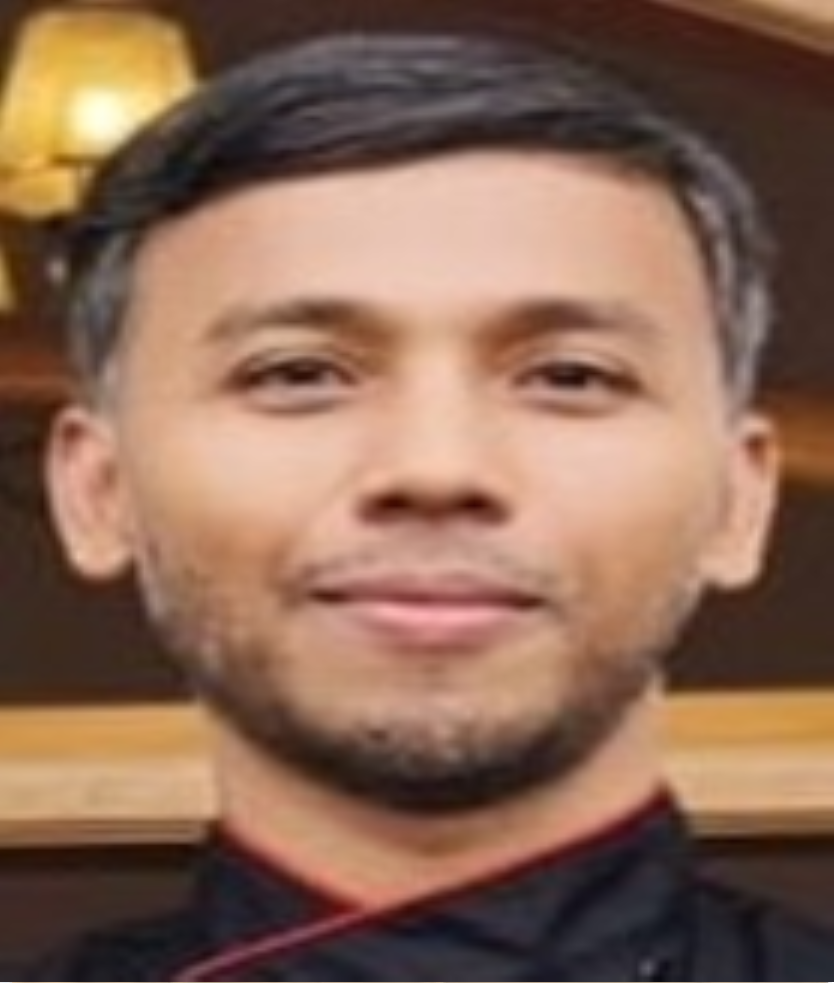
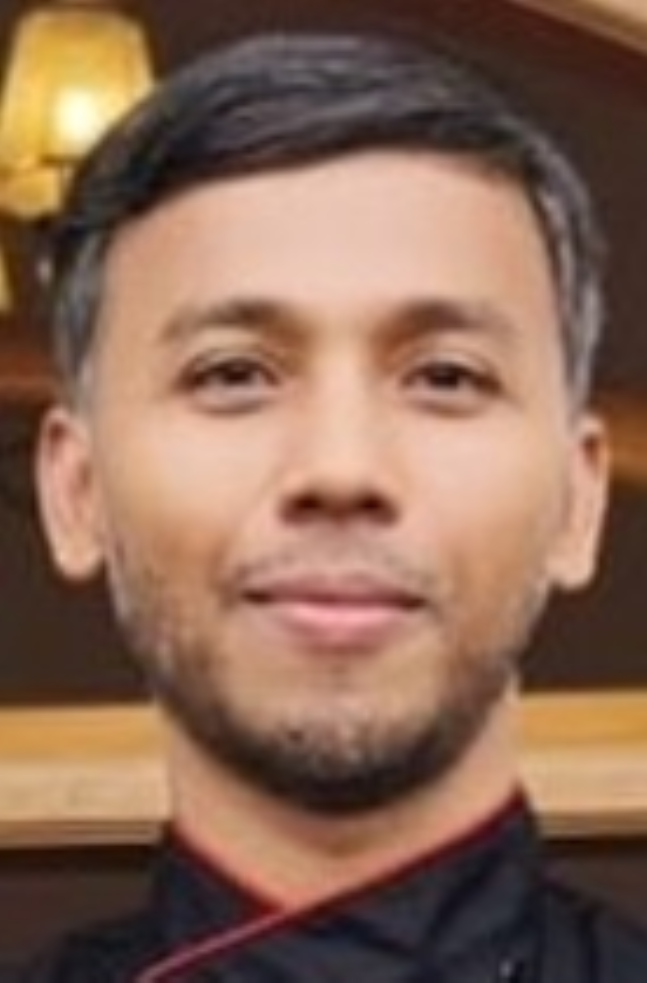
Added "Our Management" Fix Stretched image

diff --git a/BerlinerBrotfabrik/public/css/aboutus.css b/BerlinerBrotfabrik/public/css/aboutus.css
@@ -14,3 +14,7 @@
 .footer-top-area::after {
     background-image: url("../img/bg-patern2.png");
 }
+
+.swiper-pagination-bullet {
+    background: #1D571E !important;
+}

diff --git a/BerlinerBrotfabrik/resources/views/aboutus.blade.php b/BerlinerBrotfabrik/resources/views/aboutus.blade.php
@@ -49,9 +49,22 @@
             </div>
         </section>
 
-        <!-- OUR TEAM -->
+        <!-- OUR MANAGEMENT -->
         <section class="container mx-auto text-center pt-24 lg:pt-16">
             <h2 class="mb-4 text-3xl font-bold tracking-tight leading-none gb-green-text md:text-3xl lg:text-4xl">Tim Kami</h2>
+            <h3 class="font-bold text-gray-600">Lorem ipsum dolor sit amet, consectetur adipiscing elit, sed do eiusmod tempor incididunt ut labore et dolore magna aliqua.</h3>
+            <div class="w-20 h-1 gb-lgreen rounded-full mx-auto mt-6 mb-6"></div>
+        </section>
+
+        <section class="container mx-auto flex flex-col md:flex-row items-center justify-center pb-24 pt-24 md:pt-16 md:pl-16 md:pr-16">
+            <div class="flex justify-center items-center w-full">
+                <img src="{{ asset('img/management.png') }}" alt="Team 1" class="rounded-lg hover-effect shadow-xl h-auto md:h-96 w-11/12 lg:w-1/2 md:w-1/8 sm:w-full mx-4 md:mx-auto" data-aos="fade-in" data-aos-duration="1000">
+            </div>
+        </section>
+
+        <!-- OUR TEAM -->
+        <section class="container mx-auto text-center pt-24 lg:pt-16">
+            <h2 class="mb-4 text-3xl font-bold tracking-tight leading-none gb-green-text md:text-3xl lg:text-4xl">Manajemen Kami</h2>
             <h3 class="font-bold text-gray-600">Lorem ipsum dolor sit amet, consectetur adipiscing elit, sed do eiusmod tempor incididunt ut labore et dolore magna aliqua.</h3>
             <div class="w-20 h-1 gb-lgreen rounded-full mx-auto mt-6 mb-6"></div>
         </section>
@@ -61,30 +74,26 @@
                 <img src="{{ asset('img/Harald.png') }}" alt="Team 1" class="rounded-lg hover-effect shadow-xl h-64 w-64 mx-auto" data-aos="fade-in" data-aos-duration="1000">                
                 <h3 class="mt-4 text-xl font-semibold gb-green-text">German Consultant</h3>
                 <p class="font-medium text-gray-600">Harald Fuechsel</p>
-                <p class="text-sm font-normal text-gray-600">Dipl.-Eng., Business Lawyer, German Senior Expert, Senator h.c. Education and Technology</p>
+                <p class="text-sm font-normal text-gray-600"><br>Dipl.-Eng. / Business Lawyer / Dipl.-Eng. / Senator h.c. Education and Technology / Senator h.c / Senior Expert, Senior Expert Service, Germany</p>
             </div>
             <div class="w-full md:w-1/3 px-4 md:pr-8 mb-8 md:mb-0 text-center">
-                <img src="{{ asset('img/Hena.png') }}" alt="Team 2" class="rounded-lg hover-effect shadow-xl h-64 w-64 mx-auto" data-aos="fade-in" data-aos-duration="1000">
-                <h3 class="mt-4 text-xl font-semibold gb-green-text">Owner</h3>
+                <img src="{{ asset('img/Hena.png') }}" alt="Team 2" class="rounded-lg hover-effect shadow-xl h-64 w-56 mx-auto" data-aos="fade-in" data-aos-duration="1000">
+                <h3 class="mt-4 text-xl font-semibold gb-green-text">Owner and Bakery Manager </h3>
                 <p class="font-medium text-gray-600">RD Hena Mulianakusumah</p>
                 <p class="text-sm font-normal text-gray-600">
-                    <br>Study in Germany, Regional Economic Development for SME and Start-Up (InWent),
-                    <br>Education in First German Bakery Academy, Olpe,
-                    <br>Training in Bakery Mohr in Frechen / Cologne,
-                    <br>Training in Gradel Bakery and Pastry, Dresden,
-                    <br>Involvement in Development of Bio- and Gluten free Bakery Products in the team of Dr. Quendt family, Freital / Dresden,
+                    <br>Bachelor University Degree “Foreign Languages”,
+                    <br>Study at “InWent” Germany,
+                    <br>for Small and Medium Companies + Start-Up,
+                    <br>First German Bakery Académie, Olpe, Germany,
                 </p>
             </div>
             <div class="w-full md:w-1/3 px-4 md:pr-8 mb-8 md:mb-0 text-center">
-                <img src="{{ asset('img/Rari.png') }}" alt="Team 3" class="rounded-lg hover-effect shadow-xl h-64 w-64 mx-auto" data-aos="fade-in" data-aos-duration="1000">
+                <img src="{{ asset('img/Rari.png') }}" alt="Team 3" class="rounded-lg hover-effect shadow-xl h-64 w-56 mx-auto" data-aos="fade-in" data-aos-duration="1000">
                 <h3 class="mt-4 text-xl font-semibold gb-green-text">Master Baker</h3>
                 <p class="font-medium text-gray-600">Rari Gusep</p>
                 <p class="text-sm font-normal text-gray-600">
-                SMK 1 Tasikmalaya, Diploma 1 (Hotel) / 6 months 
-                <br> Training in 5-Star Hotel Malaysia First German 
-                <br> Bakery Académie, Olpe, Germany / Akademi Bakery 
-                <br> Jerman Pertama, Olpe, Jerman 
-
+                <br>SMK 1 Tasikmalaya, Diploma 1 (Hotel) / 6 months Training in 5-Star Hotel Malaysia
+                <br> First German Bakery Académie, Olpe, Germany
                 </p>
             </div>
         </section>
